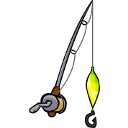
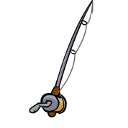
Equip fishing rod when fishing, (start of) drawing line out of fishing rod

Changed region(s): [[0.6562, 0.0938, 0.7812, 1.0]]

diff --git a/tactics_project/src/com/marklynch/objects/actions/ActionFishing.java b/tactics_project/src/com/marklynch/objects/actions/ActionFishing.java
@@ -42,7 +42,16 @@ public class ActionFishing extends Action {
 		if (!checkRange())
 			return;
 
-		FishingRod fishingRod = (FishingRod) performer.inventory.getGameObjectOfClass(FishingRod.class);
+		FishingRod fishingRod = null;
+		ArrayList<GameObject> fishingRods = performer.inventory.getGameObjectsOfClass(FishingRod.class);
+		for (GameObject f : fishingRods) {
+			if (performer.straightLineDistanceTo(target.squareGameObjectIsOn) <= f.maxRange) {
+				fishingRod = (FishingRod) f;
+			}
+		}
+		performer.equipped = fishingRod;
+		// (FishingRod)
+		// performer.inventory.getGameObjectOfClass(FishingRod.class);
 
 		performer.distanceMovedThisTurn = performer.travelDistance;
 		performer.hasAttackedThisTurn = true;
@@ -111,10 +120,10 @@ public class ActionFishing extends Action {
 
 		for (GameObject fishingRod : fishingRods) {
 			if (performer.straightLineDistanceTo(target.squareGameObjectIsOn) <= fishingRod.maxRange) {
-				actionName = ACTION_NAME_CANT_REACH;
 				return true;
 			}
 		}
+		actionName = ACTION_NAME_CANT_REACH;
 		return false;
 	}
 

diff --git a/tactics_project/src/com/marklynch/objects/tools/FishingRod.java b/tactics_project/src/com/marklynch/objects/tools/FishingRod.java
@@ -5,10 +5,16 @@ import java.util.ArrayList;
 import com.marklynch.level.squares.Square;
 import com.marklynch.objects.GameObject;
 import com.marklynch.objects.units.Actor;
+import com.marklynch.utils.Color;
+import com.marklynch.utils.LineUtils;
 
 public class FishingRod extends Tool {
 
 	public static final ArrayList<GameObject> instances = new ArrayList<GameObject>();
+	public float lineAnchorX = 93;
+	public float lineAnchorY = 0;
+	// public float lineX2;
+	// public float lineY2;
 
 	public FishingRod() {
 		super();
@@ -27,4 +33,15 @@ public class FishingRod extends Tool {
 		setAttributesForCopy(weapon, square, owner);
 		return weapon;
 	}
+
+	public void drawLine(int weaponPositionXInPixels, int weaponPositionYInPixels) {
+
+		float x1 = lineAnchorX + weaponPositionXInPixels;
+		float y1 = lineAnchorY + weaponPositionYInPixels;
+		float x2 = x1 + 100;
+		float y2 = y1 + 100;
+
+		LineUtils.drawLine(Color.RED, x1, y1, x2, y2, 10);
+	}
+
 }

diff --git a/tactics_project/src/com/marklynch/objects/units/Actor.java b/tactics_project/src/com/marklynch/objects/units/Actor.java
@@ -51,6 +51,7 @@ import com.marklynch.objects.actions.ActionTalk;
 import com.marklynch.objects.actions.ActionWait;
 import com.marklynch.objects.templates.Templates;
 import com.marklynch.objects.tools.Bell;
+import com.marklynch.objects.tools.FishingRod;
 import com.marklynch.objects.tools.Tool;
 import com.marklynch.objects.weapons.BodyArmor;
 import com.marklynch.objects.weapons.Helmet;
@@ -555,6 +556,12 @@ public class Actor extends GameObject {
 			TextureUtils.drawTexture(this.equipped.imageTexture, alpha, weaponPositionXInPixels,
 					weaponPositionYInPixels, weaponPositionXInPixels + equipped.width,
 					weaponPositionYInPixels + equipped.height);
+
+			if (equipped instanceof FishingRod) {
+				FishingRod fishingRod = (FishingRod) equipped;
+				fishingRod.drawLine(weaponPositionXInPixels, weaponPositionYInPixels);
+			}
+
 		}
 
 		if (helmet != null && !sleeping) {

diff --git a/tactics_project/src/com/marklynch/objects/templates/TemplatesTools.java b/tactics_project/src/com/marklynch/objects/templates/TemplatesTools.java
@@ -93,10 +93,12 @@ public class TemplatesTools {
 		Templates.SHOVEL.anchorY = 67;
 		Templates.SHOVEL.templateId = GameObject.generateNewTemplateId();
 
-		Templates.FISHING_ROD = new FishingRod();
+		Templates.FISHING_ROD = new FishingRod(); // 93,0
 		Templates.FISHING_ROD.name = "Fishing Rod";
 		Templates.FISHING_ROD.slashDamage = 4;
 		Templates.FISHING_ROD.maxRange = 2;
+		Templates.FISHING_ROD.lineAnchorX = 93;
+		Templates.FISHING_ROD.lineAnchorY = 0;
 		Templates.FISHING_ROD.imageTexturePath = "fishing_rod.png";
 		Templates.FISHING_ROD.imageTexture = getGlobalImage(Templates.FISHING_ROD.imageTexturePath, true);
 		Templates.FISHING_ROD.totalHealth = Templates.FISHING_ROD.remainingHealth = 16;
